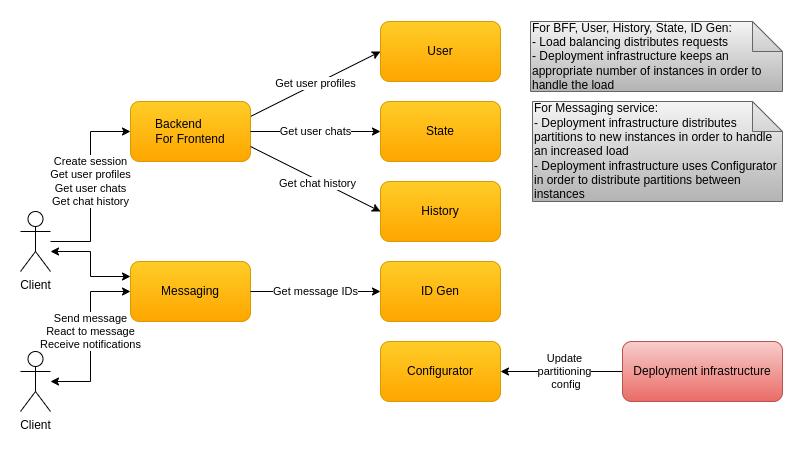
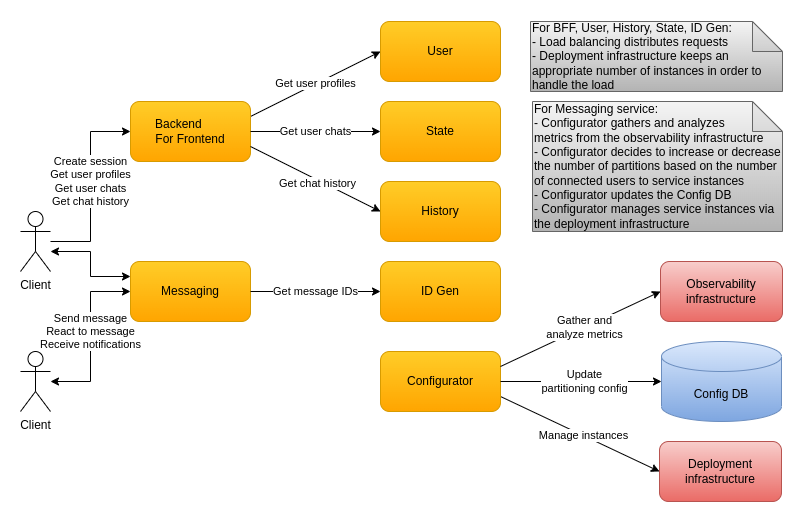
Update deployment design docs and diagrams

diff --git a/docs/design-deployment.md b/docs/design-deployment.md
@@ -2,22 +2,56 @@
 
 ![Deployment](images/cecochat-07-deployment.png)
 
-## Auto-scaling
+# Load-balancing
 
-BFF, History, ID Gen services are stateless which makes this fairly trivial. The deployment infrastructure adds a new instance and the load balancer takes it into account when a new request comes in.
+* BFF, User, State, History, ID Gen services rely on the Kubernetes provided load balancer
+* Messaging service instance is chosen when a session for the user is created
 
-Messaging, State services are stateful. Their state is the Kafka partitions which they are consuming. Therefore the auto-scaling means creating new service instances and distributing some of the partitions to the new instances. All this data is stored in the dynamic configuration which notifies all alive instances.
+# Auto-scaling
 
-Example with messaging servers:
-* Kafka partitions are 0-359
-* Messaging servers handling those partitions are `s1 -> [0-179]`, `s2 -> [180-359]`
-* When the load on them is too big some partitions could be redistributed to a new messaging server s3
-* Now the distribution is `s1 -> [0-119]`, `s2 -> [180-299]`, `s3 -> [120-179, 300-359]`
+## Conventional services
 
-The number of partitions can be big. Kafka clusters are known to work with 10 000 or 20 000 partitions. Which means their distribution can be made even with the appropriate number. Additionally the partitions can be split into smaller partition ranges in order to make it more convenient to create an algorithm for even distribution between the instances.
+For BFF, User, State, History, ID Gen services Kubernetes adds/removes instances based on resource utilization with custom rules and the load balancer for each service gets updated.
 
-## Failover
+## Messaging service
 
-BFF, History, ID Gen services are stateless so if an instance dies the requests are sent to one of the other services via the load balancers. In the meantime the deployment infrastructure keeps the desired number of instances by creating a new one.
+The Messaging service is stateful due to the Kafka partitions which each instance is consuming, so the process is a bit more complex:
+* The Configurator analyzes the metrics provided by the observability infrastructure.
+  - Doing this frequently would lead to smaller changes in the number of instances and related infrastructure.
+  - Smaller changes take less time to be materialized and are more optimal in terms of cost.
+  - Predicting the load based on past usage can also be utilized to reduce the allocation of unnecessary resources.
+* When the Messaging service instances reach an upper/lower threshold of connected users then either new instances need to be added (increase) or existing ones removed (decrease).
+  - In an increase the new instances need some of the currently assigned partitions.
+  - In a decrease the instances that need to be terminated need their partitions to be assigned to the surviving instances.
+* Configurator calculates the desired partition distribution among the instances and updates the dynamic configuration in ConfigDB.
+  - This process could be optimized in such a way that minimal clients are disconnected and/or other important factors.
+* Existing instances are notified for the partition changes.
+  - In an increase some of the instances disconnect some of the connected clients.
+  - In a decrease the instances to be terminated disconnect all of their connected clients.
+* Configurator updates the deployment infrastructure and adds required new instances or terminates the unneeded ones.
+  - In an increase the new instances start up and begin processing the partitions assigned to them.
+  - In a decrease the existing instances begin processing the partitions newly assigned to them.
+* New and previously disconnected clients dedicated to the moved partitions now connect.
+  - Clients should not be connected to 2 instances simultaneously.
+  - The time between disconnect is minimal e.g. P99 1 second, up to 5 seconds max.
+  - We can prepare instances beforehand to quicken the transition and possibly use other small optimizations.
+  - Client receives a special `DISCONNECT` notification which it can use to make the transition without indicating loss of connection.
 
-Messaging, State services are stateful. If an instance dies the deployment infrastructure would create a new one. In order to speed things up though it can keep a few instances idle. This way the wait interval will be greatly reduced if the time for a new instance to be created is big.
+Example of partitions distribution increase:
+* Partitions are `[0-359]`
+* Instances handling those partitions are `0 -> [0-179]`, `1 -> [180-359]`
+* When the upper threshold of connected users is met, some partitions should be redistributed to a new instance `2`
+* Configurator updates ConfigDB with the new distribution `0 -> [0-119]`, `1 -> [180-299]`, `2 -> [120-179, 300-359]`
+
+Example of partitions distribution decrease:
+* Partitions are `[0-359]`
+* Instances handling those partitions are `0 -> [0-119]`, `1 -> [120-239]`, `2 -> [240-359]`
+* When the lower threshold of connected users is met, instance `2` needs to be terminated and its assigned partitions distributed to existing instances `0` and `1`
+* Configurator updates ConfigDB with the new distribution `0 -> [0-119, 240-299]`, `1 -> [120-239, 300-359]`
+
+The number of partitions can be big. Kafka clusters are known to work with 10 000 or 20 000 partitions. Which means their distribution can be made even among instances with the appropriate number of partitions and instances. Additionally the partitions can be split into smaller partition ranges in order to make it more convenient to create an algorithm for even distribution.
+
+# High-availability
+
+* Kubernetes monitors the instances using the health probes for startup, liveness, readiness
+* Kubernetes ensures the appropriate number of instances are up and running

diff --git a/docs/what-next.md b/docs/what-next.md
@@ -40,16 +40,14 @@
   - Design cross-region communication
 * Security
   - Rate limiting
-  - Use secure transports and protocols on communication level
+  - Secure access to integration, data storage, observability components
 * Observability
   - Metrics for system resources
   - Alerting
 * Deployment
   - Infrastructure as code
-  - Load balancing
   - Auto-scaling
-    - Distribute partitions between stateful service instances
-  - Failover
+  - High availability (complete)
 
 ## Development
 
@@ -69,4 +67,4 @@
   - Improve existing log aggregation - performance of Fluentd, ElasticSearch index customizations
 * Misc
   - Improve monotonic clock skew and make snowflake ID generation to use it as `IdGen.ITimeSource`
-  - Improve error handling, resilience, validation (e.g. gRPC requests)
+  - Improve error handling, resilience

diff --git a/docs/intro-capabilities.md b/docs/intro-capabilities.md
@@ -26,9 +26,9 @@
 * Scalability
   - Designed for up to 10 mln of simultaneously active users, which unfortunately is expensive to validate due to the infrastructure required
   - Supported by numbers from the [calculations](research-calculations.md)
-  - Linear scalability of the main technologies (Kafka, Cassandra) 
+  - Linear scalability of the main technologies (Kafka, Cassandra, YugabyteDB) 
 * Security
-  - TLS used on communication level
+  - TLS for Kubernetes cluster and services
   - Access tokens for authn and authz
 * Observability
   - Health
@@ -38,6 +38,9 @@
   - Monitoring
 * Deployment
   - Containerization
+  - Load balancing
+  - High availability (partial)
 * Maintainability
+  - Minimal documentation
   - Code quality gate
   - Open-source technologies
